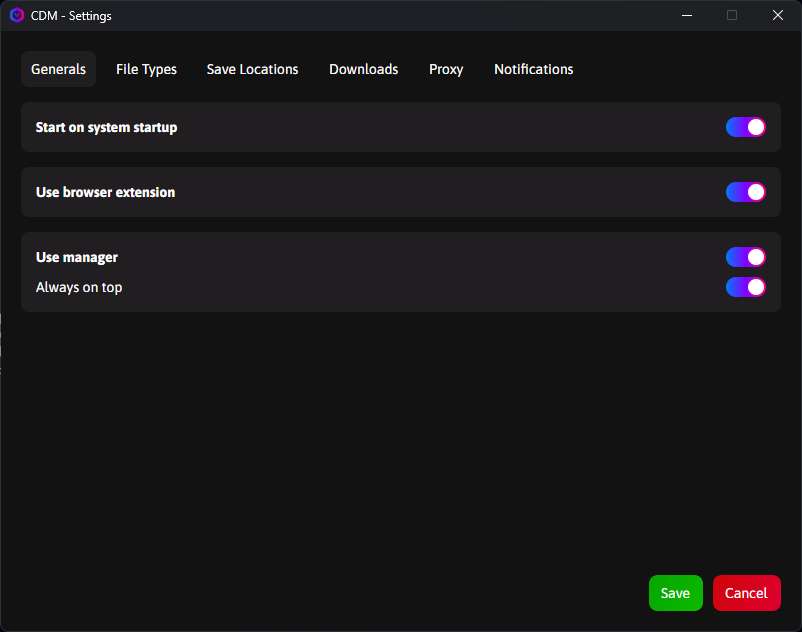
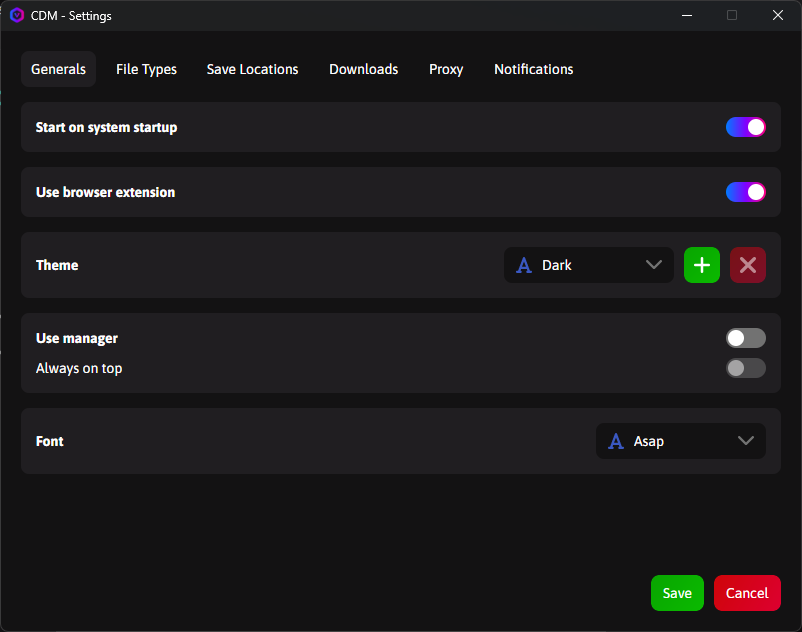
Add theme customization guide

diff --git a/Assets/MarkDown/THEME_GUIDE.md b/Assets/MarkDown/THEME_GUIDE.md
@@ -1,0 +1,149 @@
+# CDM Theme Customization Guide
+
+## 🎨 Custom Themes
+
+**Cross Platform Download Manager (CDM)** supports custom themes that allow you to personalize the application's appearance according to your preferences. You can either use the built-in themes or create your own from scratch.
+
+### Available Themes
+
+We provide two default themes:
+
+1. **Dark Theme** - Ideal for low-light environments
+2. **Light Theme** - Optimized for bright environments
+
+You can download these theme files from the [Themes folder on GitHub](https://github.com/adel-bakhshi/CrossPlatformDownloadManager/tree/master/CrossPlatformDownloadManager.DesktopApp/Assets/Themes).
+
+---
+
+## 🛠 Creating Custom Themes
+
+### Theme File Structure
+
+CDM themes are JSON files with the following structure:
+
+```json
+{
+  "themeName": "YourThemeName",
+  "isDarkTheme": true/false,
+  "primaryColor": {
+    "brushMode": 0,
+    "color": "#HEXCODE",
+    "opacity": 1
+  },
+  // Other color settings...
+}
+```
+
+### Steps to Create a Custom Theme:
+
+1. **Download an existing theme** (preferably one closest to your desired look)
+2. **Open the file with a text editor** (VS Code, Notepad++, etc.)
+3. **Modify the color values**:
+   - Each color uses HEX code (e.g., `#FFFFFF` for white)
+   - You can use tools like [Adobe Color](https://color.adobe.com/) to create color palettes
+4. **Change the theme name** (edit the `themeName` field)
+5. **Save the file** (with `.json` extension)
+
+### Example Color Modification:
+
+To change the primary color, edit this section:
+
+```json
+"primaryColor": {
+  "brushMode": 0,
+  "color": "#131213",  // Change this value
+  "opacity": 1
+}
+```
+
+---
+
+## 📂 Installing and Using Custom Themes
+
+Follow these steps to add and apply your custom theme:
+
+1. **Prepare your theme file**:
+
+   - Make sure your theme file is ready and saved with the .json extension
+
+2. **Open Settings**:
+
+   - Launch CDM and go to:  
+     **Settings → General**  
+     ![Adding a Custom Theme](../Screenshots/3.png)  
+     _Theme selection interface in Settings_
+
+3. **Add your theme**:
+
+   - Click the **Plus (+)** button
+   - Select your theme JSON file from the file browser
+   - The theme will automatically be added to the selection list
+
+4. **Apply your theme**:
+   - Select your new theme from the dropdown menu
+   - The changes will apply immediately
+
+> **Tip**: You can switch between themes anytime from this menu. The application remembers your last selected theme.
+
+---
+
+## 🎨 Advanced Customization
+
+CDM themes support these advanced features:
+
+### Gradients
+
+You can create gradient effects for certain elements:
+
+```json
+"primaryGradientBrush": {
+  "brushMode": 1,
+  "startPoint": "0,0.5",
+  "endPoint": "1,0.5",
+  "gradientStops": [
+    {
+      "offset": 0,
+      "color": {
+        "brushMode": 0,
+        "color": "#007BFF",
+        "opacity": 1
+      }
+    },
+    // Additional gradient points...
+  ]
+}
+```
+
+### Opacity
+
+Control element transparency by adjusting the `opacity` value (range: 0 to 1).
+
+---
+
+## 💡 Design Tips
+
+1. **For Dark Themes**:
+
+   - Use dark background colors
+   - Use light text colors
+   - Set `isDarkTheme` to `true`
+
+2. **For Light Themes**:
+
+   - Use light background colors
+   - Use dark text colors
+   - Set `isDarkTheme` to `false`
+
+3. **Maintain proper contrast** between text and backgrounds for readability
+
+---
+
+## 🤝 Sharing Your Themes
+
+If you've created an interesting theme, share it with the CDM community:
+
+1. Create a new Issue on our [GitHub page](https://github.com/adel-bakhshi/CrossPlatformDownloadManager/issues)
+2. Attach your theme file
+3. Describe your theme's features and best use cases
+
+We may include outstanding themes in the official CDM collection!

diff --git a/README.md b/README.md
@@ -107,6 +107,16 @@ Since we haven't been able to publish the browser extension on the Chrome Web St
 
 ---
 
+## 🎨 Custom Themes
+
+CDM supports custom themes to personalize your experience. You can:
+
+- Use built-in dark/light themes
+- Create your own custom themes
+- Share themes with the community
+
+For detailed instructions on creating and applying custom themes, see our [Theme Customization Guide](./Assets/MarkDown/THEME_GUIDE.md).
+
 ## ✨ Features & Enhancements
 
 **Cross Platform Download Manager (CDM)** is packed with powerful features designed to enhance your downloading experience:
